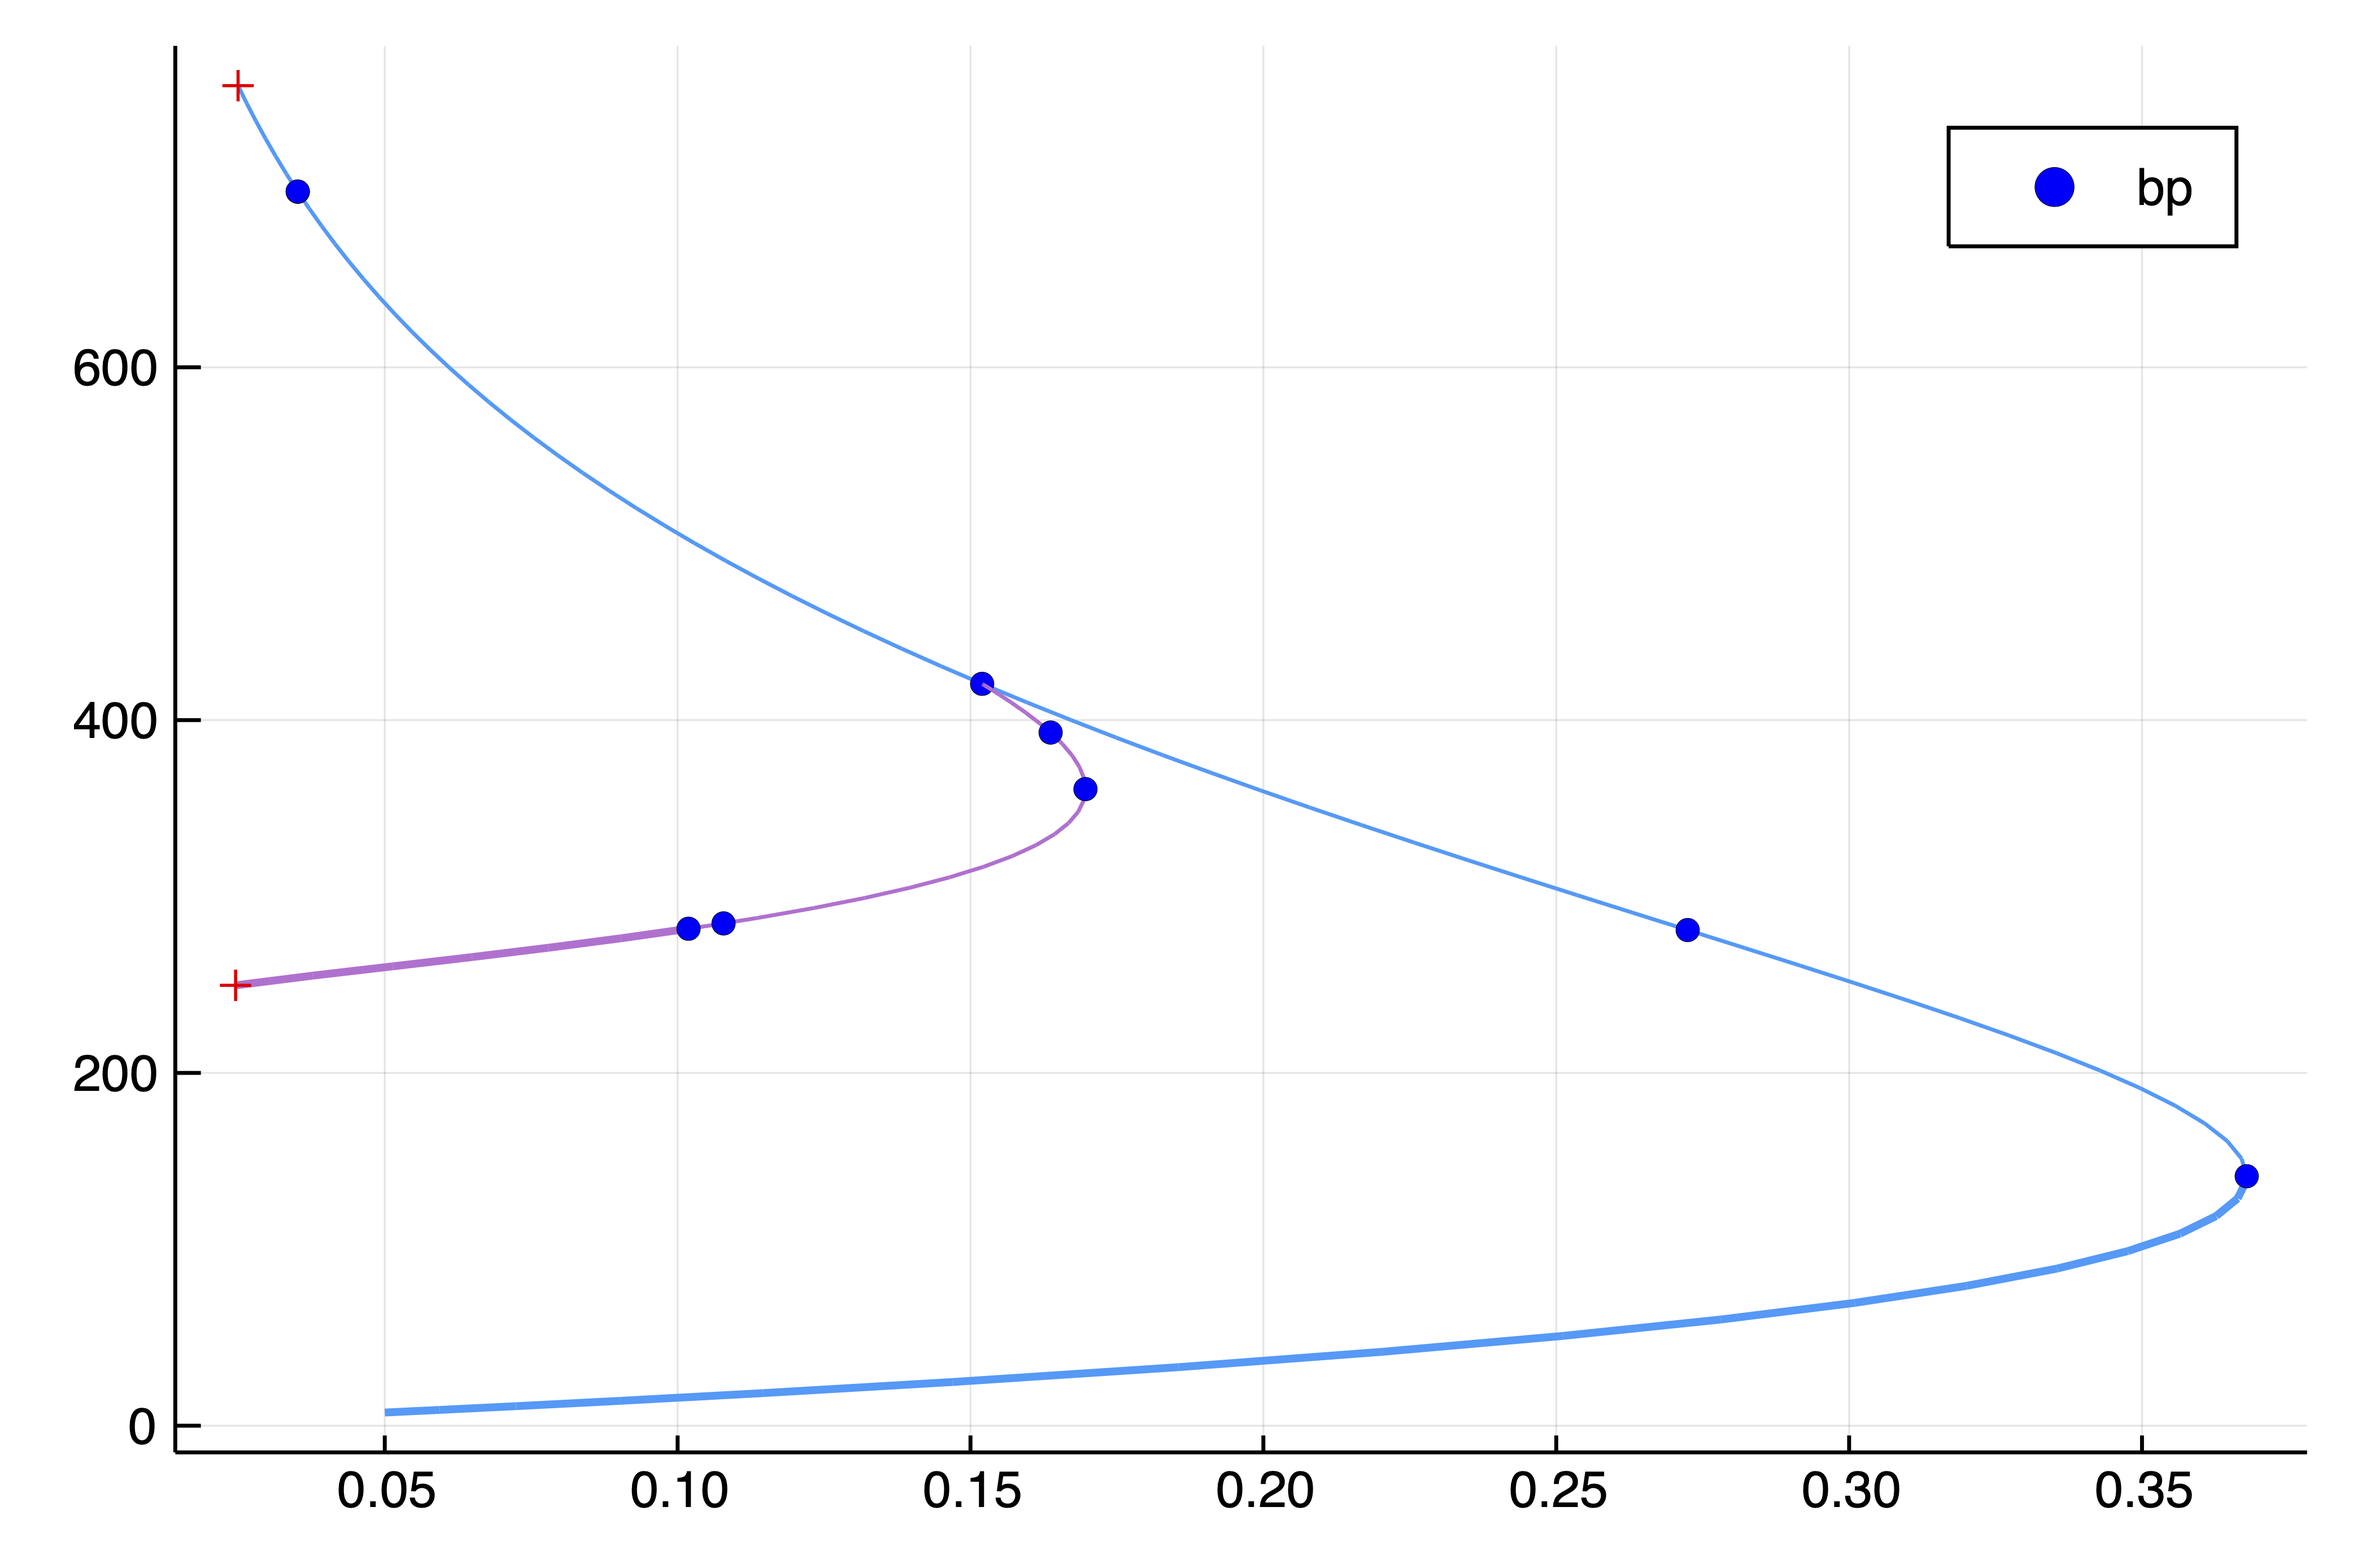
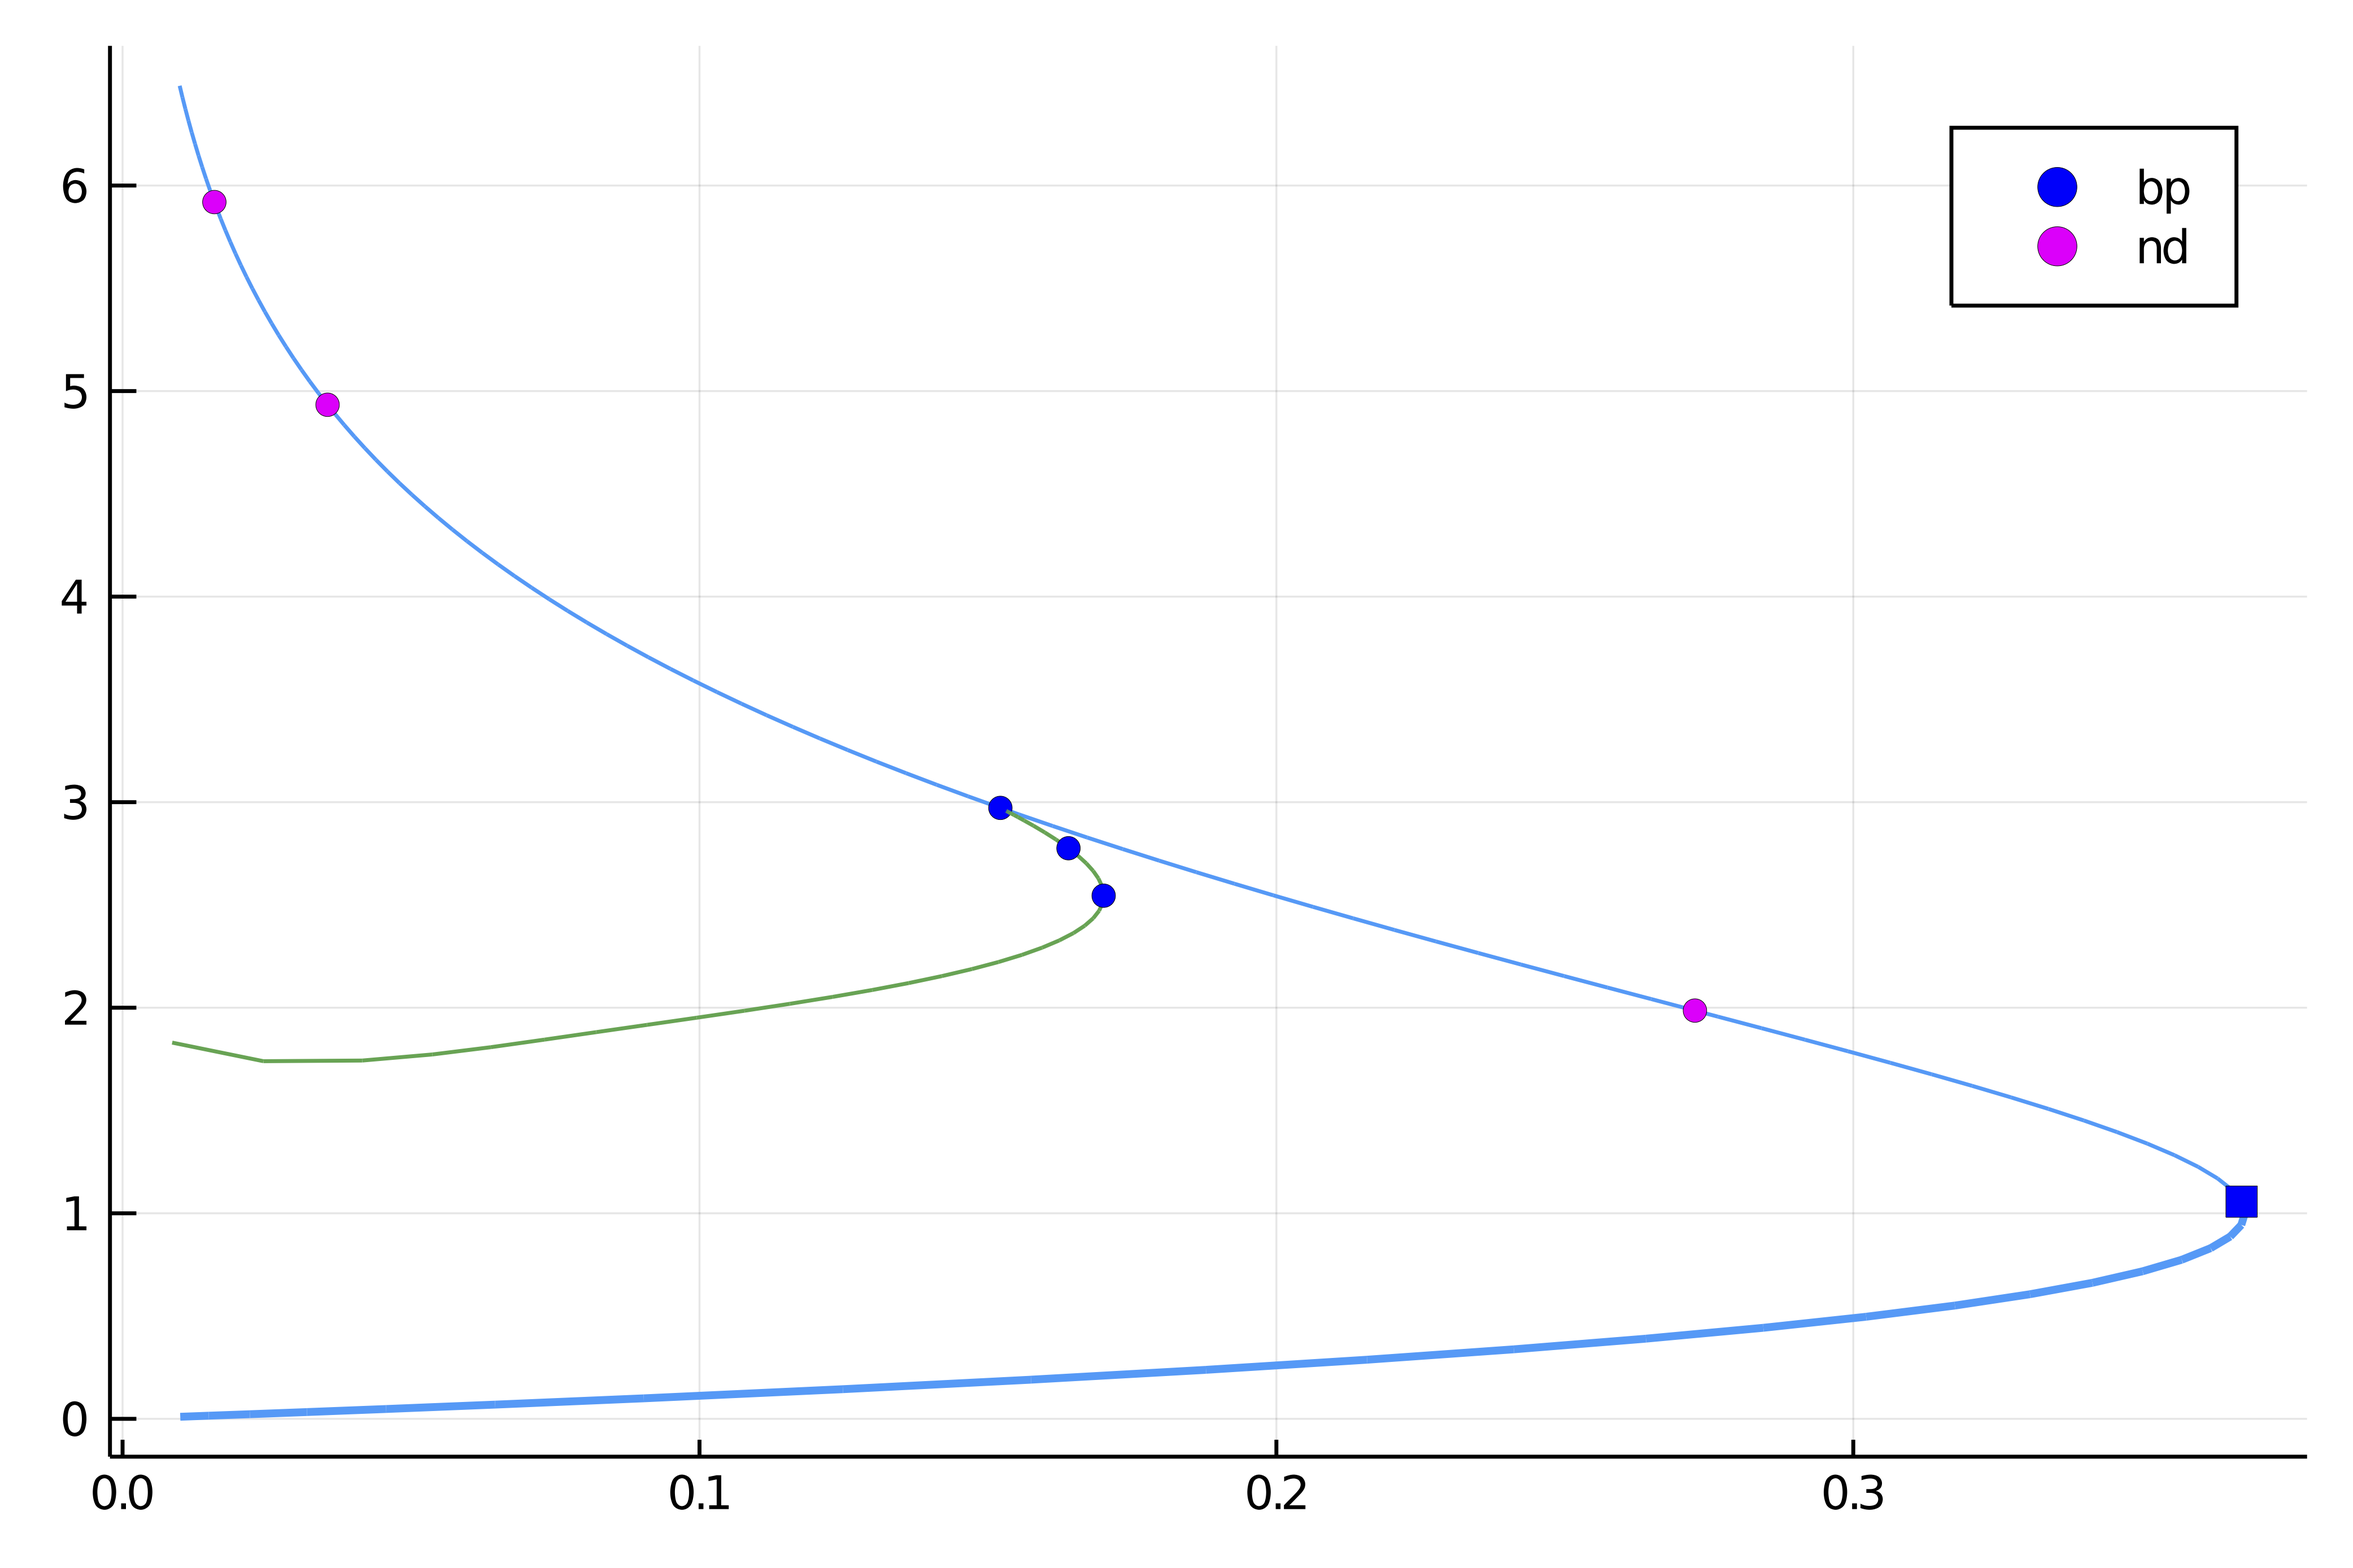
correct mittlemann example from docs
correct figure

diff --git a/docs/src/mittelmann.md b/docs/src/mittelmann.md
@@ -23,8 +23,9 @@ using DiffEqOperators, ForwardDiff
 using BifurcationKit, LinearAlgebra, Plots, SparseArrays, Parameters, Setfield
 const BK = BifurcationKit
 
-# define the sup norm
+# define the sup norm and a L2 norm
 norminf = x -> norm(x, Inf)
+normbratu = x-> norm(x) / sqrt(length(x))
 
 # some plotting function to simplify our life
 plotsol!(x, nx = Nx, ny = Ny; kwargs...) = heatmap!(reshape(x, nx, ny); color = :viridis, kwargs...)
@@ -81,8 +82,8 @@ end
 We need to pass the parameters associated to this problem:
 
 ```julia
-Nx = 200
-Ny = 100
+Nx = 30
+Ny = 30
 lx = 0.5
 ly = 0.5
 
@@ -97,7 +98,7 @@ To compute the eigenvalues, we opt for the shift-invert strategy with shift `=0.
 
 ```julia
 # eigensolver
-eigls = EigArpack(0.5, :LM)
+eigls = EigKrylovKit(dim = 70)
 
 # options for Newton solver
 opt_newton = BK.NewtonPar(tol = 1e-8, verbose = true, eigsolver = eigls, maxIter = 20)
@@ -107,7 +108,7 @@ opts_br = ContinuationPar(dsmin = 0.001, dsmax = 0.05, ds = 0.01, pMax = 3.5, pM
 	detectBifurcation = 3, nev = 30, plotEveryNsteps = 10, newtonOptions = (@set opt_newton.verbose = true), 
 	maxSteps = 100, precisionStability = 1e-6, nInversion = 4, dsminBisection = 1e-7, maxBisectionSteps = 25)
 ```	 
-Note that we put the option `detectBifurcation = 2` to detect bifurcations precisely with a bisection method. Indeed, we need to locate these branch points precisely to be able to call automatic branch switching.
+Note that we put the option `detectBifurcation = 3` to detect bifurcations precisely with a bisection method. Indeed, we need to locate these branch points precisely to be able to call automatic branch switching.
 
 ## Branch of homogenous solutions
 At this stage, we note that the problem has a curve of homogenous (constant in space) solutions $u_h$ solving $N(\lambda, u_h)=0$. We shall compute this branch now.
@@ -118,7 +119,7 @@ We can now call `continuation` with the initial guess `sol0` which is homogenous
 br, _ = @time BK.continuation(
 	Fmit, JFmit,
 	sol0, par_mit, (@lens _.λ), opts_br;
-	printSolution = (x, p) -> norm(x),
+	printSolution = (x, p) -> normbratu(x),
 	plotSolution = (x, p; kwargs...) -> plotsol!(x ; kwargs...),
 	plot = true, verbosity = 3, normC = norminf)
 ```
@@ -131,15 +132,18 @@ Several branch point were detected as can be seen using the command
 
 ```julia
 julia> br
-Branch number of points: 85
+Branch number of points: 123
+Branch of Equilibrium
 Bifurcation points:
--   1,      bp point around p ≈ 0.36787944, step =  18, idx =  19, ind_bif =   1 [converged], δ = ( 1,  0)
--   2,      bp point around p ≈ 0.27243768, step =  33, idx =  34, ind_bif =   3 [converged], δ = ( 2,  0)
--   3,      bp point around p ≈ 0.15198538, step =  48, idx =  49, ind_bif =   4 [converged], δ = ( 1,  0)
--   4,      bp point around p ≈ 0.03515924, step =  76, idx =  77, ind_bif =   5 [converged], δ = ( 1,  0)
--   5,      bp point around p ≈ 0.03513245, step =  78, idx =  79, ind_bif =   6 [converged], δ = ( 1,  0)
+ (ind_ev = index of the bifurcating eigenvalue e.g. `br.eig[idx].eigenvals[ind_ev]`)
+- #  1,      bp point around p ≈ 0.36731369, step =  24, eigenelements in eig[ 25], ind_ev =   1 [    guess], δ = ( 1,  0)
+- #  2,      nd point around p ≈ 0.27255058, step =  41, eigenelements in eig[ 42], ind_ev =   3 [converged], δ = ( 2,  0)
+- #  3,      bp point around p ≈ 0.15215677, step =  59, eigenelements in eig[ 60], ind_ev =   4 [converged], δ = ( 1,  0)
+- #  4,      nd point around p ≈ 0.03552798, step =  94, eigenelements in eig[ 95], ind_ev =   6 [converged], δ = ( 2,  0)
+- #  5,      nd point around p ≈ 0.01590310, step = 112, eigenelements in eig[113], ind_ev =   8 [converged], δ = ( 2,  0)
 Fold points:
--   1,    fold point around p ≈ 0.36787944, step =  19, idx =  19, ind_bif =   0 [    guess], δ = ( 0,  0)
+- #  1,    fold point around p ≈ 0.36787944, step =  24, eigenelements in eig[ 24], ind_ev =   0 [    guess], δ = ( 0,  0)
+
 ```
 
 We notice several simple bifurcation points for which the dimension of the kernel of the jacobian is one dimensional. In the above box, `δ = ( 1,  0)` gives the change in the stability. In this case, there is one vector in the kernel which is real. The bifurcation point 2 has a 2d kernel and is thus not amenable to automatic branch switching.
@@ -168,7 +172,7 @@ We can now compute the branch off the third bifurcation point:
 br1, _ = continuation(jet..., br, 3, 
 	setproperties(opts_br;ds = 0.001, maxSteps = 40);
 	verbosity = 3, plot = true,
-	printSolution = (x, p) -> norm(x),
+	printSolution = (x, p) -> normbratu(x),
 	plotSolution = (x, p; kwargs...) -> plotsol!(x ; kwargs...),
 	normC = norminf)
 ```	

diff --git a/docs/src/BifurcationDiagram.md b/docs/src/BifurcationDiagram.md
@@ -30,11 +30,17 @@ function FbpSecBif(u, p)
 	return @. -u * (p + u * (2-5u)) * (p -.15 - u * (2+20u))
 end
 
+D(f, x, p, dx) = ForwardDiff.derivative(t -> f(x .+ t .* dx, p), 0.)
 dFbpSecBif(x,p)         =  ForwardDiff.jacobian( z-> FbpSecBif(z,p), x)
 d1FbpSecBif(x,p,dx1)         = D((z, p0) -> FbpSecBif(z, p0), x, p, dx1)
 d2FbpSecBif(x,p,dx1,dx2)     = D((z, p0) -> d1FbpSecBif(z, p0, dx1), x, p, dx2)
 d3FbpSecBif(x,p,dx1,dx2,dx3) = D((z, p0) -> d2FbpSecBif(z, p0, dx1, dx2), x, p, dx3)
 jet = (FbpSecBif, dFbpSecBif, d2FbpSecBif, d3FbpSecBif)
+
+# options for Krylov-Newton
+opt_newton = NewtonPar(tol = 1e-9, verbose = false, maxIter = 20)
+# options for continuation
+opts_br = ContinuationPar(dsmin = 0.001, dsmax = 0.05, ds = 0.01, pMax = 0.4, pMin = -0.5, detectBifurcation = 3, nev = 2, newtonOptions = opt_newton, maxSteps = 100, nInversion = 4, tolBisectionEigenvalue = 1e-8, dsminBisection = 1e-9)
 
 diagram = bifurcationdiagram(jet..., 
 	# initial point and parameter
@@ -65,5 +71,3 @@ Bifurcation points:
 You can plot the diagram like `plot(bdiag; putbifptlegend=false, markersize=2, plotfold=false, title = "#branches = $(size(bdiag))")` and it gives:
 
 ![](diagram1d.png)
-
-## Additional information
